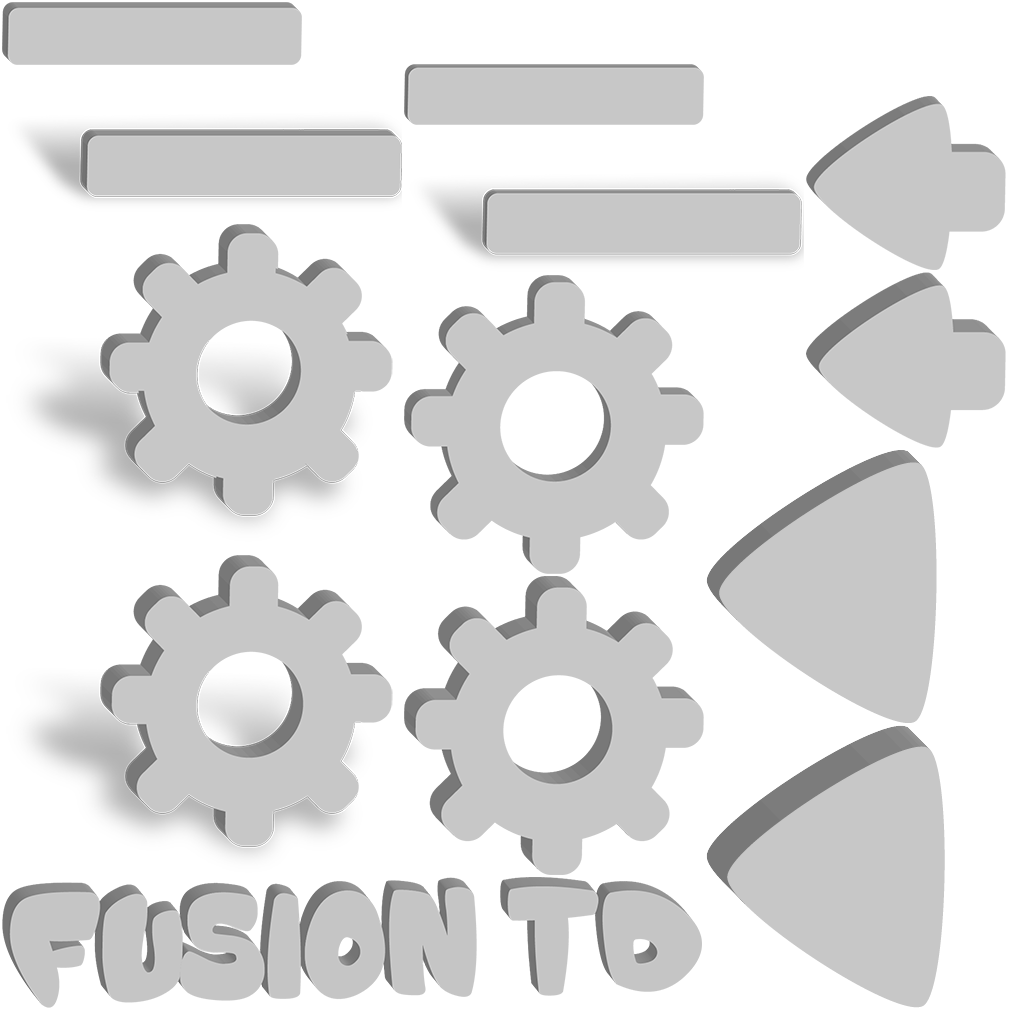
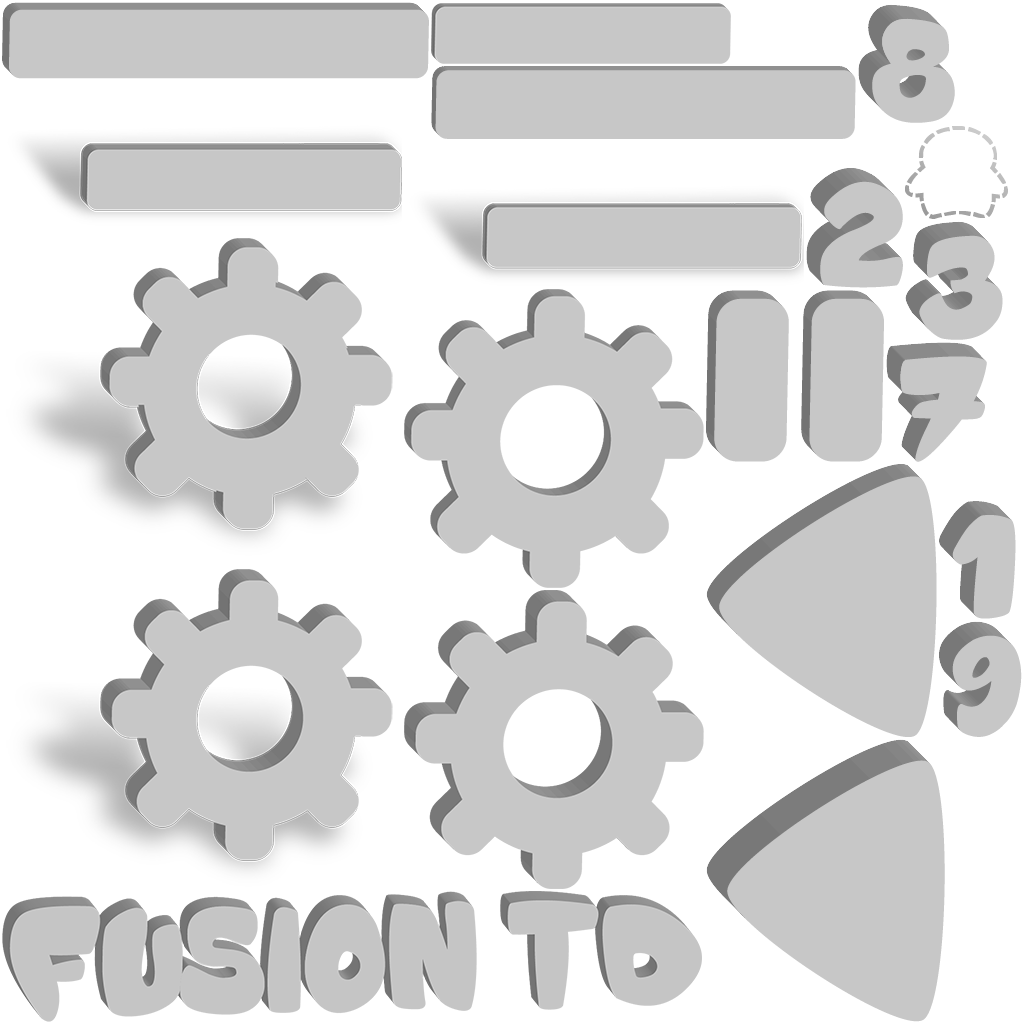
copied ui_new to ui

diff --git a/core/src/no/fusiontd/menu/MenuSkin.java b/core/src/no/fusiontd/menu/MenuSkin.java
@@ -25,8 +25,8 @@ public class MenuSkin extends Skin {
 
         add("font", font, BitmapFont.class);
 
-        SpriteDrawable button = new SpriteDrawable(uiAtlas.createSprite("button0"));
-        SpriteDrawable buttonPressed = new SpriteDrawable(uiAtlas.createSprite("button1"));
+        SpriteDrawable button = new SpriteDrawable(uiAtlas.createSprite("button0_long"));
+        SpriteDrawable buttonPressed = new SpriteDrawable(uiAtlas.createSprite("button1_long"));
         add("default", new TextButton.TextButtonStyle(button, buttonPressed, buttonPressed, font));
         add("default", new Window.WindowStyle(font, Color.BLACK, button));
 
@@ -41,7 +41,7 @@ public class MenuSkin extends Skin {
     private static BitmapFont generateBitmapFont() {
         FreeTypeFontGenerator generator = new FreeTypeFontGenerator(Gdx.files.internal("Fonts/CANDY-SHOP-BLACK.TTF"));
         FreeTypeFontGenerator.FreeTypeFontParameter parameter = new FreeTypeFontGenerator.FreeTypeFontParameter();
-        parameter.size = 30;
+        parameter.size = 20;
         //parameter.borderWidth = 8;
         parameter.color = Color.BLACK;
         //parameter.borderColor = Color.BLUE;
